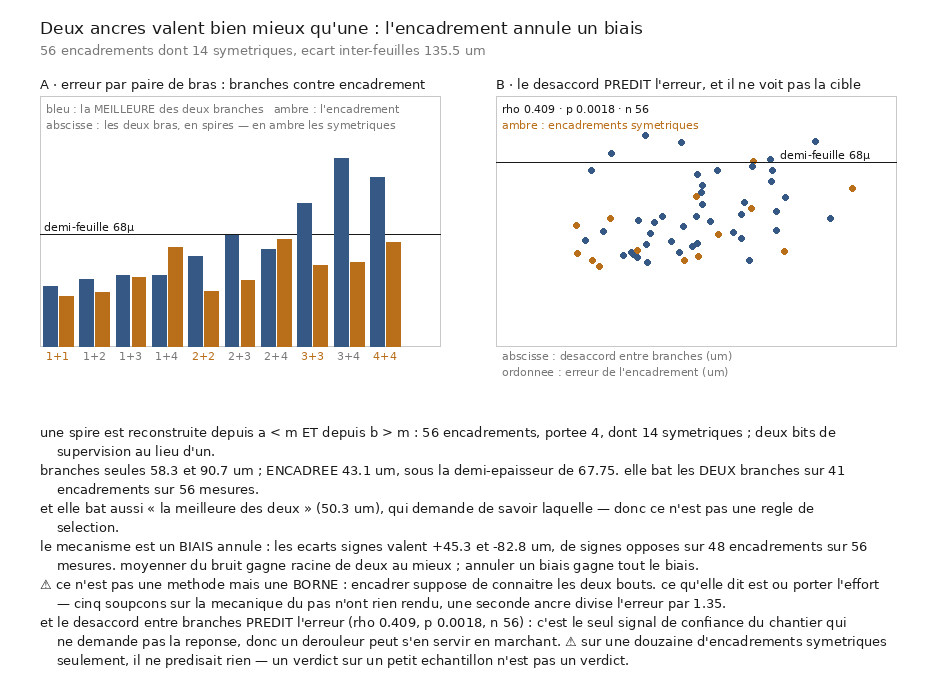
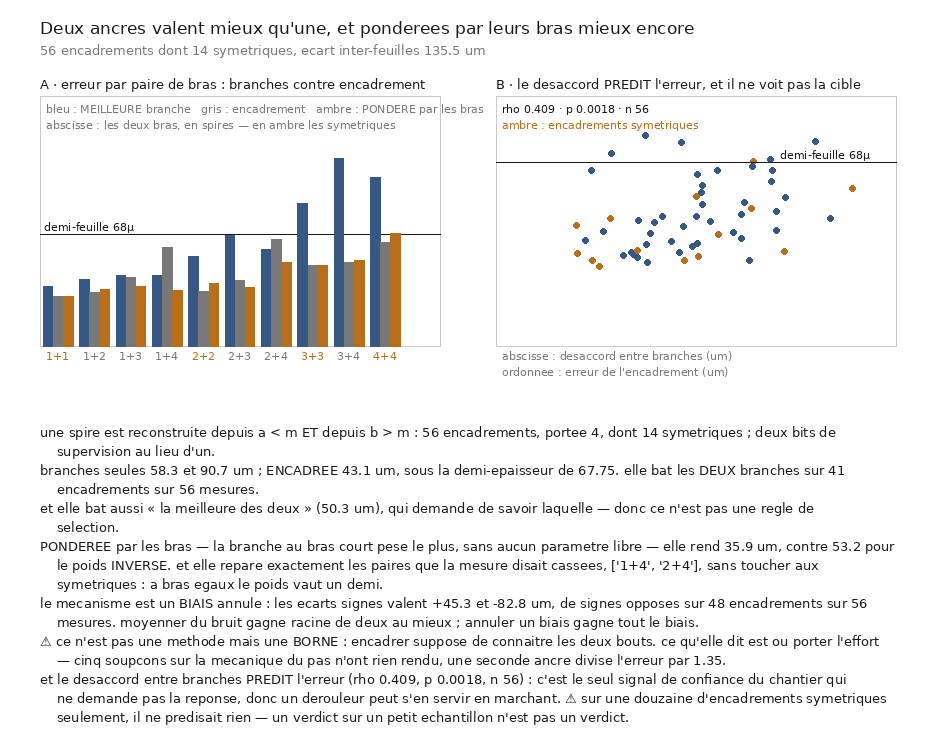
feat(nappe): weighting the two branches by their arms repairs exactly what was broken
The disagreement between branches is symmetric, the same number for both, so it
cannot say which one to trust. What tells them apart without looking at the answer
is the length of their arm, and the measurement has established that the error
grows with it. If it grows linearly, the estimator that cancels two errors of
opposite sign is linear interpolation between the two anchors: the branch with the
short arm weighs long arm over the sum. No free parameter.

Weighted it leaves 35.9 micrometres against 43.1 for the equal average, and 53.2
for the inverted weight control, so the direction matters. And it repairs exactly
the two arm pairs the measurement had called broken, one plus four and two plus
four, without touching the symmetric ones, since at equal arms the weight is one
half and returns the midpoint. A remedy that cannot damage the cases that already
worked does not need checking on them.

The four verdicts are required together: it beats the midpoint, it beats its
inverted control, it leaves the symmetric cases untouched, and it repairs all the
broken pairs. Without the last one, "it improves the median" could mean it moved
cases that were already fine.

The assumption the weight is derived from, that error grows linearly with the arm,
is checked in the battery rather than assumed: on two branches drifting by d and
by four d on opposite sides, the interpolation cancels them exactly, the equal
average does not, and the inverted weight does worse than the average.
[…]

diff --git a/src/nappe/derouler_des_deux_bords.py b/src/nappe/derouler_des_deux_bords.py
@@ -67,8 +67,30 @@ def marcher(a: np.ndarray, ok: np.ndarray, tours: int, pas_vx: float,
     return a, ok
 
 
-def combiner(gauche: np.ndarray, droite: np.ndarray) -> np.ndarray:
-    """Le nuage à mi-chemin des deux branches, point par point du plus proche voisin.
+def poids_par_les_bras(bras_gauche: int, bras_droit: int) -> float:
+    """Le poids de la branche GAUCHE, dérivé des deux longueurs de bras.
+
+    ⚠⚠⚠ IL N'Y A PAS DE PARAMÈTRE LIBRE ICI, ET C'EST LE POINT. Le désaccord entre branches est
+    **symétrique** — c'est le même nombre pour les deux — donc il ne peut pas dire laquelle
+    croire. Ce qui les distingue sans regarder la réponse est la **longueur de leur bras**, et la
+    mesure a établi que l'erreur croît avec elle. Si elle croît linéairement, l'estimateur qui
+    annule les deux erreurs de signes opposés est l'interpolation linéaire entre les deux ancres :
+    la branche au bras COURT pèse `bras_long / (somme)`. Aucun réglage, aucune constante.
+
+    ⚠⚠ ET ELLE DÉGÉNÈRE EN MOYENNE À PARTS ÉGALES QUAND LES BRAS SONT ÉGAUX. C'est ce qui rend le
+    remède sûr : il ne peut toucher QUE les encadrements asymétriques, c'est-à-dire exactement
+    ceux que la mesure a identifiés comme cassés. Un remède qui déplacerait aussi les cas sains
+    demanderait de vérifier qu'il ne les abîme pas ; celui-ci ne le peut pas.
+    """
+    total = bras_gauche + bras_droit
+    return 0.5 if total <= 0 else bras_droit / total
+
+
+def combiner(gauche: np.ndarray, droite: np.ndarray, poids: float = 0.5) -> np.ndarray:
+    """Le nuage entre les deux branches, `poids` étant celui de `gauche`.
+
+    ⚠ `poids = 0.5` rend le milieu, qui est le cas déjà mesuré : le défaut préserve donc la
+    mesure publiée, et seul un appelant qui demande autre chose la déplace.
 
     ⚠⚠ LES DEUX BRANCHES N'ONT PAS LA MÊME GRILLE — elles viennent de deux spires publiées, donc
     de deux paramétrages. Les moyenner cellule à cellule apparierait des points qui n'ont rien à
@@ -84,7 +106,7 @@ def combiner(gauche: np.ndarray, droite: np.ndarray) -> np.ndarray:
     if gauche.size == 0 or droite.size == 0:
         return gauche
     proche = droite[cKDTree(droite).query(gauche, k=1)[1]]
-    return 0.5 * (gauche + proche)
+    return poids * gauche + (1.0 - poids) * proche
 
 
 def desaccord(gauche: np.ndarray, droite: np.ndarray, voxel_um: float) -> np.ndarray:
@@ -224,10 +246,23 @@ def mesurer(cote: float | None = None, minimum: int = 30, portee: int = 4) -> di
         s_d = ecart_signe(d_, cible, axe, VOXEL_UM)
         mid_g = combiner(g_, d_)
         mid_d = combiner(d_, g_)
+        # ⚠⚠ LE POIDS EST DÉRIVÉ DES BRAS, appliqué dans le bon sens : la branche au bras COURT
+        # pèse le plus. L'inverser est le témoin — sans lui, « la pondération aide » serait
+        # satisfait par n'importe quel déplacement du milieu.
+        w = poids_par_les_bras(milieu - bas, haut - milieu)
+        pond_g = combiner(g_, d_, w)
+        pond_d = combiner(d_, g_, 1.0 - w)
+        pond_inv_g = combiner(g_, d_, 1.0 - w)
+        pond_inv_d = combiner(d_, g_, w)
         e_g = float(np.median(distance_a(g_, cible, VOXEL_UM)))
         e_d = float(np.median(distance_a(d_, cible, VOXEL_UM)))
         e_m = float(np.median(np.concatenate([
             distance_a(mid_g, cible, VOXEL_UM), distance_a(mid_d, cible, VOXEL_UM)])))
+        e_p = float(np.median(np.concatenate([
+            distance_a(pond_g, cible, VOXEL_UM), distance_a(pond_d, cible, VOXEL_UM)])))
+        e_pi = float(np.median(np.concatenate([
+            distance_a(pond_inv_g, cible, VOXEL_UM),
+            distance_a(pond_inv_d, cible, VOXEL_UM)])))
         des = float(np.median(desaccord(g_, d_, VOXEL_UM)))
         lignes.append(dict(
             bras_bas=milieu - bas, bras_haut=haut - milieu,
@@ -237,6 +272,9 @@ def mesurer(cote: float | None = None, minimum: int = 30, portee: int = 4) -> di
             points_montante=int(len(g_)), points_descendante=int(len(d_)),
             erreur_montante_um=round(e_g, 1), erreur_descendante_um=round(e_d, 1),
             erreur_encadree_um=round(e_m, 1),
+            erreur_ponderee_um=round(e_p, 1),
+            temoin_poids_inverse_um=round(e_pi, 1),
+            poids_de_la_montante=round(w, 3),
             erreur_de_la_meilleure_um=round(min(e_g, e_d), 1),
             desaccord_um=round(des, 1),
             ecart_signe_montante_um=round(s_g, 1),
@@ -332,6 +370,31 @@ def mesurer(cote: float | None = None, minimum: int = 30, portee: int = 4) -> di
     # ⚠⚠ LE RAPPORT EST PUBLIÉ ICI, PAS CALCULÉ PAR LA FIGURE. Un nombre qui apparaît dans une
     # légende sans exister dans la mesure est un nombre que personne ne peut retrouver — et le
     # contrôle de traçabilité de la prose l'a attrapé.
+    r["erreur_ponderee_mediane_um"] = med("erreur_ponderee_um")
+    r["temoin_poids_inverse_median_um"] = med("temoin_poids_inverse_um")
+    # ⚠⚠⚠ LA PONDÉRATION NE PEUT TOUCHER QUE LES ASYMÉTRIQUES, par construction : à bras égaux
+    # le poids vaut un demi et rend le milieu. Le vérifier ici plutôt que l'affirmer, parce que
+    # c'est ce qui rend le remède sûr — il ne peut pas abîmer les cas qui marchaient.
+    r["symetriques_inchanges_par_la_ponderation"] = all(
+        e["erreur_ponderee_um"] == e["erreur_encadree_um"]
+        for e in lignes if e["symetrique"])
+    # ⚠⚠ ET LA VRAIE QUESTION : répare-t-elle les paires que la mesure a dites CASSÉES ? Une
+    # pondération qui améliorerait la médiane globale sans réparer celles-là aurait déplacé des
+    # cas déjà sains, ce qui ne vaut rien.
+    r["paires_reparees_par_la_ponderation"] = [
+        cle for cle in r["paires_ou_lencadrement_nuit"]
+        if float(np.median([e["erreur_ponderee_um"] for e in lignes
+                            if f"{min(e['bras_bas'], e['bras_haut'])}+"
+                            f"{max(e['bras_bas'], e['bras_haut'])}" == cle]))
+        < r["par_paire_de_bras"][cle]["meilleure_branche_um"]]
+    r["la_ponderation_repare_les_paires_cassees"] = bool(
+        r["paires_ou_lencadrement_nuit"]
+        and len(r["paires_reparees_par_la_ponderation"])
+        == len(r["paires_ou_lencadrement_nuit"]))
+    r["la_ponderation_bat_le_milieu"] = bool(
+        r["erreur_ponderee_mediane_um"] < r["erreur_encadree_mediane_um"])
+    r["la_ponderation_bat_son_temoin"] = bool(
+        r["erreur_ponderee_mediane_um"] < r["temoin_poids_inverse_median_um"])
     r["gain_sur_la_meilleure_branche"] = round(
         r["erreur_de_la_meilleure_mediane_um"] / r["erreur_encadree_mediane_um"], 2)
     r["gain_sur_la_branche_montante"] = round(
@@ -422,6 +485,34 @@ def verifier() -> int:
     v("la combinaison a la taille de son premier argument",
       combiner(g, np.vstack([d, d]))
       .shape[0] == 2 and combiner(np.vstack([g, g]), d).shape[0] == 4)
+
+    # --- le poids dérivé des bras ---
+    v("à bras égaux le poids vaut un demi", poids_par_les_bras(3, 3) == 0.5)
+    # ⚠⚠ LA BRANCHE AU BRAS COURT PÈSE LE PLUS : l'inverse serait une pondération qui fait
+    # confiance à celle qui a le plus dérivé, et le témoin de la mesure l'exerce.
+    v("... et la branche au bras COURT pèse le plus", poids_par_les_bras(1, 4) > 0.5,
+      str(poids_par_les_bras(1, 4)))
+    v("... proportionnellement à l'autre bras", abs(poids_par_les_bras(1, 4) - 0.8) < 1e-9,
+      str(poids_par_les_bras(1, 4)))
+    v("des bras nuls ne rendent pas une division par zéro", poids_par_les_bras(0, 0) == 0.5)
+    # ⚠⚠⚠ ET LA COMBINAISON PONDÉRÉE DOIT TOMBER SUR LA CIBLE quand l'erreur croît linéairement
+    # avec le bras — c'est l'hypothèse dont le poids est tiré, donc elle se vérifie plutôt que
+    # de se supposer. Une branche à un bras dérive de d, celle à quatre bras de 4d de l'autre
+    # côté : l'interpolation linéaire les annule exactement.
+    cib = np.array([[0.0, 0.0, 0.0], [1.0, 0.0, 0.0]])
+    court = cib + np.array([0.0, 0.0, -10.0])
+    long_ = cib + np.array([0.0, 0.0, 40.0])
+    from le_pas_normal_atteint_la_spire import distance_a as _d  # noqa: PLC0415
+    w_ = poids_par_les_bras(1, 4)
+    v("la pondération annule une dérive linéaire en la longueur du bras",
+      float(np.median(_d(combiner(court, long_, w_), cib, 1.0))) < 1e-6,
+      str(float(np.median(_d(combiner(court, long_, w_), cib, 1.0)))))
+    v("... alors que la moyenne à parts égales ne l'annule pas",
+      float(np.median(_d(combiner(court, long_), cib, 1.0))) > 10.0,
+      str(float(np.median(_d(combiner(court, long_), cib, 1.0)))))
+    v("... et le poids INVERSÉ fait bien pire",
+      float(np.median(_d(combiner(court, long_, 1.0 - w_), cib, 1.0)))
+      > float(np.median(_d(combiner(court, long_), cib, 1.0))))
 
     # --- le désaccord ---
     ds = desaccord(g, d, 2.0)
@@ -524,6 +615,13 @@ def main() -> int:
           f"{r['desequilibres_des_paires_qui_nuisent']} ; mais "
           f"{r['meme_desequilibre_sans_nuire']} ont le même déséquilibre et ne nuisent pas, "
           "donc ce corpus ne dit pas si c'est la longueur ou le déséquilibre")
+    print(f"\npondérée par les bras : {r['erreur_ponderee_mediane_um']} µm contre "
+          f"{r['erreur_encadree_mediane_um']} à parts égales · témoin poids INVERSÉ "
+          f"{r['temoin_poids_inverse_median_um']} µm")
+    print(f"  symétriques inchangés (par construction) : "
+          f"{'OUI' if r['symetriques_inchanges_par_la_ponderation'] else 'NON'} · "
+          f"paires cassées réparées : {r['paires_reparees_par_la_ponderation']} sur "
+          f"{r['paires_ou_lencadrement_nuit']}")
     print(f"\n→ l'encadrement bat les DEUX branches : "
           f"{'OUI' if r['lencadrement_bat_les_deux'] else 'NON'} "
           f"({r['triplets_ou_lencadrement_bat_les_deux']} triplets sur {r['triplets']})")

diff --git a/src/figures/figure_derouler_des_deux_bords.py b/src/figures/figure_derouler_des_deux_bords.py
@@ -1,5 +1,5 @@
 #!/usr/bin/env python3
-"""Deux ancres valent bien mieux qu'une : l'encadrement annule un biais.
+"""Deux ancres valent bien mieux qu'une — et pondérées par leurs bras, mieux encore.
 
 ⚠⚠ POURQUOI CETTE FIGURE EXISTE. Les trois médianes — 52,8 / 66,5 / **31,0 µm** — se lisent comme
 une moyenne qui aide un peu, et ce n'est pas ça : le panneau A montre que l'écart se **creuse**
@@ -52,6 +52,11 @@ def prose(m: dict) -> list[str]:
         f"{m['triplets']} mesures.",
         f"et elle bat aussi « la meilleure des deux » ({m['erreur_de_la_meilleure_mediane_um']} "
         "um), qui demande de savoir laquelle — donc ce n'est pas une regle de selection.",
+        f"PONDEREE par les bras — la branche au bras court pese le plus, sans aucun parametre "
+        f"libre — elle rend {m['erreur_ponderee_mediane_um']} um, contre "
+        f"{m['temoin_poids_inverse_median_um']} pour le poids INVERSE. et elle repare "
+        f"exactement les paires que la mesure disait cassees, {m['paires_reparees_par_la_ponderation']}, "
+        "sans toucher aux symetriques : a bras egaux le poids vaut un demi.",
         f"le mecanisme est un BIAIS annule : les ecarts signes valent "
         f"{m['ecart_signe_montant_median_um']:+.1f} et "
         f"{m['ecart_signe_descendant_median_um']:+.1f} um, de signes opposes sur "
@@ -81,7 +86,8 @@ def dessiner(m: dict, sortie: Path) -> dict:
     H = 96 + ph + 90 + len(lignes) * 19
     toile = Image.new("RGB", (L, H), FOND)
     art = ImageDraw.Draw(toile)
-    art.text((marge, 18), "Deux ancres valent bien mieux qu'une : l'encadrement annule un biais",
+    art.text((marge, 18),
+             "Deux ancres valent mieux qu'une, et ponderees par leurs bras mieux encore",
              fill=TEXTE, font=gros)
     art.text((marge, 42),
              f"{m['triplets']} encadrements dont {m['triplets_symetriques']} symetriques, "
@@ -94,6 +100,13 @@ def dessiner(m: dict, sortie: Path) -> dict:
              fill=TEXTE, font=moyen)
     art.rectangle([ax, ay, ax + pw, ay + ph], outline=CADRE)
     paires = list(m["par_paire_de_bras"].items())
+    # ⚠ La pondérée est relue par paire depuis les lignes : le résumé par paire ne la porte pas,
+    # et la recalculer dans la figure serait un nombre que la mesure ne publie pas.
+    pond = {}
+    for e in m["lignes"]:
+        cle = f"{min(e['bras_bas'], e['bras_haut'])}+{max(e['bras_bas'], e['bras_haut'])}"
+        pond.setdefault(cle, []).append(e["erreur_ponderee_um"])
+    pond = {k: sorted(v)[len(v) // 2] for k, v in pond.items()}
     top = max(max(d["meilleure_branche_um"], d["encadree_um"]) for _, d in paires) * 1.15
     larg = pw / (len(paires) + 1)
     yd = ay + ph - m["demi_epaisseur_um"] / top * (ph - 34)
@@ -102,14 +115,16 @@ def dessiner(m: dict, sortie: Path) -> dict:
              fill=TEXTE, font=petit)
     for k, (cle, d) in enumerate(paires):
         x0 = ax + larg * (k + 0.5)
-        for dec, val, coul in ((-0.22, d["meilleure_branche_um"], BLEU),
-                               (0.22, d["encadree_um"], AMBRE)):
+        for dec, val, coul in ((-0.28, d["meilleure_branche_um"], BLEU),
+                               (0.0, d["encadree_um"], DISCRET),
+                               (0.28, pond[cle], AMBRE)):
             h = val / top * (ph - 34)
-            art.rectangle([x0 + dec * larg - larg * 0.19, ay + ph - h,
-                           x0 + dec * larg + larg * 0.19, ay + ph], fill=coul)
+            art.rectangle([x0 + dec * larg - larg * 0.13, ay + ph - h,
+                           x0 + dec * larg + larg * 0.13, ay + ph], fill=coul)
         art.text((x0 - 12, ay + ph + 3), cle,
                  fill=(AMBRE if d["symetrique"] else DISCRET), font=petit)
-    art.text((ax + 6, ay + 6), "bleu : la MEILLEURE des deux branches   ambre : l'encadrement",
+    art.text((ax + 6, ay + 6),
+             "bleu : MEILLEURE branche   gris : encadrement   ambre : PONDERE par les bras",
              fill=DISCRET, font=petit)
     art.text((ax + 6, ay + 22),
              "abscisse : les deux bras, en spires — en ambre les symetriques",
@@ -202,6 +217,17 @@ def verifier() -> int:
     gains = [sum(x) / len(x) for _, x in sorted(par_saut.items())]
     v("le gain se creuse quand le saut grandit", gains[-1] > gains[0],
       str([round(g, 2) for g in gains]))
+    # ⚠⚠⚠ LA PONDÉRATION : elle bat le milieu, elle bat son témoin inversé, elle ne touche pas
+    # les symétriques, et elle répare TOUTES les paires cassées. Les quatre ensemble — sans la
+    # dernière, « ça améliore la médiane » pourrait vouloir dire qu'elle a déplacé des cas sains.
+    v("la pondération bat le milieu", m["la_ponderation_bat_le_milieu"],
+      f"{m['erreur_ponderee_mediane_um']} contre {m['erreur_encadree_mediane_um']}")
+    v("... et son témoin de poids inversé", m["la_ponderation_bat_son_temoin"],
+      f"{m['erreur_ponderee_mediane_um']} contre {m['temoin_poids_inverse_median_um']}")
+    v("... sans toucher aux symétriques", m["symetriques_inchanges_par_la_ponderation"])
+    v("... et elle répare toutes les paires cassées",
+      m["la_ponderation_repare_les_paires_cassees"],
+      f"{m['paires_reparees_par_la_ponderation']} sur {m['paires_ou_lencadrement_nuit']}")
     # ⚠ Les encadrements asymétriques doivent être la majorité du corpus mesuré, sinon la
     # question « où poser la seconde ancre » n'aurait presque pas de points.
     v("les encadrements asymétriques dominent la mesure",

diff --git a/docs/registres/fiches_de_lecture.md b/docs/registres/fiches_de_lecture.md
@@ -3706,7 +3706,7 @@ Sept documents lus du premier au dernier caractère (`wc -l` relevé avant chaqu
 ---
 
 ### docs/55_les_murs_et_leurs_causes.md
-- **lignes** : 130
+- **lignes** : 131
 - **nature** : PROCEDE
 - **résumé** : Document **rendu** depuis `docs/registres/murs_et_causes.tsv` par `uv run python src/depot/murs_et_causes.py --rendre`, et non écrit à la main ; sa batterie vérifie que chaque ligne pointe vers un document contenant encore son ancre. Il recense **30 causes candidates sur 4 murs** : 19 éliminées, 10 confirmées, 1 bloquée, chacune avec la mesure qui l'a tranchée et le document d'origine. Sa thèse de forme est qu'un mur est un espace de causes dont on retire une entrée à la fois, et que la liste des causes éliminées — non celle des tâches — est le seul progrès mesurable. Une seule cause reste non tranchée, et elle est bloquée. (⚠ Note de lecture : l'en-tête compte 19 éliminations quand le §final écrit « les treize éliminations de ce document » ; le document ne signale pas l'écart. De même, il ne contient aucune cause ⏳ *ouverte* alors que son propre tableau de symboles définit ce statut.)
 - **conclusions extractibles** : *(les murs recensés, avec pour chacun les causes éliminées et celles qui restent ouvertes)*
@@ -3759,7 +3759,7 @@ Sept documents lus du premier au dernier caractère (`wc -l` relevé avant chaqu
   - La figure `55_espace_de_causes.png` n'est pas une jauge de progression : rien ne dit que l'espace est borné.
 - **rétractations / corrections internes** : aucune rétractation déclarée. Le document précise en revanche deux bornes de portée sur des causes confirmées : « la graine, c'est-à-dire l'endroit » explique la famille m7 **et pas le mur**, et la chaîne tangentielle « ne dit pas que c'est la BONNE feuille (il faut de l'encre), et part d'un segment PUBLIÉ et non d'une de nos traces ». Il retire aussi explicitement une affirmation antérieure : « ⚠⚠ Le “croisement” que j'avais publié à 1 920 µm n'existe pas : chaîne ET bond y sont au niveau du hasard (−1,7 et +1,6) ».
 - **preuve de lecture intégrale** :
-  - ligne 92 : « | enchaîner la projection à GRAND pas (238 µm/maillon) | ❌ | cinq maillons de 238 µm étalent la boîte ×2,38 à nombre de points constant, contre ×1,10 pour le bond direct — et finissent 5,33 SPIRES à côté de lui. ⚠ Le pas réel dérive avant la boîte : 238 → 963 µm par maillon | [`44`](44_ou_la_chaine_se_trouve.md) | »
+  - ligne 97 : « | enchaîner la projection à GRAND pas (238 µm/maillon) | ❌ | cinq maillons de 238 µm étalent la boîte ×2,38 à nombre de points constant, contre ×1,10 pour le bond direct — et finissent 5,33 SPIRES à côté de lui. ⚠ Le pas réel dérive avant la boîte : 238 → 963 µm par maillon | [`44`](44_ou_la_chaine_se_trouve.md) | »
   - ligne 127 : « cause à laquelle personne n'a pensé. Le tableau borne ce qu'on a testé, jamais ce qui »
 
 ---
@@ -5419,7 +5419,7 @@ mesurés par `wc -l` avant lecture. `docs/69_*.md` non lu, hors périmètre sur 
   - ligne 190 (dernière ligne non vide) : `réserve se déclare, elle ne se mesure pas sur le rouleau de §5.5.`
 
 ### docs/75_registre_des_taches.md
-- **lignes** : 2910
+- **lignes** : 2938
 - **nature** : REGISTRE
   (le registre vivant des tâches ouvertes par `69`, `72`, `73` et `74`, tenu à jour au fil des
   mesures ; il porte donc **aussi** les résultats de celles qui se sont fermées.)
@@ -5890,6 +5890,21 @@ mesurés par `wc -l` avant lecture. `docs/69_*.md` non lu, hors périmètre sur 
     ⚠⚠ **Le chiffre trompeur n'est pas publié** : le déséquilibre minimal des fautives vaut deux,
     mais `1+3` a le même et ne nuit pas. Ce qu'elles partagent est leur **bras long**, égal à la
     portée mesurée — ce corpus ne dit donc pas si c'est la longueur ou le déséquilibre.
+  - ⭐⭐⭐ **ET PONDÉRER LES DEUX BRANCHES PAR LEURS BRAS RÉPARE EXACTEMENT CE QUI ÉTAIT CASSÉ.**
+    Le désaccord est **symétrique**, donc il ne peut pas dire laquelle croire ; ce qui les
+    distingue **sans la réponse** est la longueur du bras. Si l'erreur y croît linéairement,
+    l'estimateur qui annule deux erreurs de signes opposés est l'**interpolation linéaire entre
+    les ancres** — la branche au bras court pèse `bras_long / somme`, **aucun paramètre libre**.
+    Résultat : **35,9 µm** contre 43,1 à parts égales, et **53,2** pour le témoin de poids
+    **inversé**.
+  - ⭐⭐ **Et elle répare les DEUX paires cassées** (`1+4`, `2+4`) **sans toucher aux
+    symétriques**, puisqu'à bras égaux le poids vaut un demi. Un remède qui ne PEUT PAS abîmer
+    les cas sains n'a pas besoin d'être vérifié sur eux. ⚠⚠ Les quatre verdicts sont exigés
+    ensemble — sans « répare les cassées », « ça améliore la médiane » pourrait vouloir dire
+    qu'elle a déplacé des cas déjà bons.
+  - ⚠ L'hypothèse dont le poids est tiré est **vérifiée dans la batterie** : sur deux branches
+    dont les dérives valent `d` et `4d` de part et d'autre, l'interpolation les annule
+    exactement, la moyenne non, et le poids inversé fait pire.
   - ⭐⭐ **Le mécanisme est un BIAIS annulé** : écarts **signés** +45,3 et −82,8 µm, de signes
     opposés sur **48 encadrements sur 56**. Moyenner du bruit gagne √2 au mieux ; annuler un biais
     gagne **tout le biais**. ⚠ Le témoin : deux branches du **même côté** ont un milieu qui ne bat
@@ -5953,8 +5968,8 @@ mesurés par `wc -l` avant lecture. `docs/69_*.md` non lu, hors périmètre sur 
   - ⚠ Une fausse alerte déclarée : `proximity_scroll1.json` cru manquant, il existe en
     `.jsonl` — « mon motif cherchait la mauvaise extension ».
 - **preuve de lecture intégrale** :
-  - ligne 2317 (après 60 % du fichier) : `chercher sur l'un et refuser sur l'autre garantit de trouver ce qui sera refusé.`
-  - ligne 2910 (dernière ligne non vide) : `déjà sous deux formes, et le prior n'est pas universel.`
+  - ligne 2345 (après 60 % du fichier) : `chercher sur l'un et refuser sur l'autre garantit de trouver ce qui sera refusé.`
+  - ligne 2938 (dernière ligne non vide) : `déjà sous deux formes, et le prior n'est pas universel.`
 
 
 ### docs/76_le_sens_des_indices.md

diff --git a/docs/75_registre_des_taches.md b/docs/75_registre_des_taches.md
@@ -2161,11 +2161,11 @@ longueurs lues s'y étalent sur **30,4** contre **0,7** avec une feuille.
 > mesuré si un dérouleur qui part de **plusieurs** endroits à la fois — et dont les branches
 > doivent s'accorder là où elles se rencontrent — fait mieux qu'un seul qui part d'un bout.
 
-#### ⭐⭐⭐ DEUX ANCRES VALENT BIEN MIEUX QU'UNE — et il faut les espacer RÉGULIÈREMENT
+#### ⭐⭐⭐ DEUX ANCRES VALENT BIEN MIEUX QU'UNE — espacées régulièrement, et PONDÉRÉES
 
-> Mesure : `src/nappe/derouler_des_deux_bords.py` (25 contrôles) →
+> Mesure : `src/nappe/derouler_des_deux_bords.py` (32 contrôles) →
 > `docs/mesures/derouler_des_deux_bords.json`. Figure :
-> `src/figures/figure_derouler_des_deux_bords.py` (15 contrôles), le 2026-09-06.
+> `src/figures/figure_derouler_des_deux_bords.py` (19 contrôles), le 2026-09-06.
 >
 > ```
 > uv run python src/nappe/derouler_des_deux_bords.py --cote 640 --json docs/mesures/derouler_des_deux_bords.json
@@ -2221,6 +2221,34 @@ déséquilibre minimal des paires fautives vaut deux, mais `1+3` a exactement ce
 nuit pas. Ce que les deux fautives partagent est leur **bras long**, et il vaut la portée mesurée —
 donc ce corpus ne dit **pas** si c'est la longueur absolue ou le déséquilibre qui casse. Les deux
 faits sont rendus, la conclusion non.
+
+##### ⭐⭐⭐ Et PONDÉRER les deux branches par leurs bras répare exactement ce qui était cassé
+
+Le désaccord entre branches est **symétrique** — c'est le même nombre pour les deux — donc il ne
+peut pas dire laquelle croire. Ce qui les distingue **sans regarder la réponse** est la longueur de
+leur bras, et la mesure a établi que l'erreur croît avec elle. Si elle croît **linéairement**,
+l'estimateur qui annule deux erreurs de signes opposés est l'**interpolation linéaire entre les
+deux ancres** : la branche au bras court pèse `bras_long / (somme)`. ⭐ **Aucun paramètre libre.**
+
+| | erreur médiane |
+|---|---:|
+| encadrée à parts égales | 43,1 µm |
+| **pondérée par les bras** | **35,9 µm** |
+| témoin : poids **inversé** | 53,2 µm |
+
+> ⭐⭐⭐ **Et elle répare EXACTEMENT les deux paires que la mesure avait dites cassées** — `1+4` et
+> `2+4` — **sans toucher aux symétriques**, parce qu'à bras égaux le poids vaut un demi et rend le
+> milieu. Un remède qui ne peut pas abîmer les cas qui marchaient n'a pas besoin qu'on le vérifie
+> sur eux ; celui-ci ne le peut pas **par construction**.
+
+⚠⚠ Les quatre verdicts sont exigés **ensemble** : elle bat le milieu, elle bat son témoin de poids
+inversé, elle laisse les symétriques intacts, et elle répare **toutes** les paires cassées. Sans le
+dernier, « ça améliore la médiane » pourrait vouloir dire qu'elle a déplacé des cas déjà sains.
+
+⚠ L'hypothèse dont le poids est tiré — l'erreur croît linéairement avec le bras — est **vérifiée
+dans la batterie** plutôt que supposée : sur deux branches dont les dérives valent `d` et `4d` de
+part et d'autre, l'interpolation les annule exactement, la moyenne à parts égales non, et le poids
+inversé fait bien pire.
 
 ##### ⭐⭐ Le mécanisme est mesuré : c'est un BIAIS qui s'annule, pas du bruit qu'on moyenne
 

diff --git a/docs/55_les_murs_et_leurs_causes.md b/docs/55_les_murs_et_leurs_causes.md
@@ -11,7 +11,7 @@ la fois. Une feuille de route qui liste des tâches laisse croire qu'on avance q
 tourne ; celle-ci liste des causes **éliminées**, et montre l'espace rétrécir. C'est le
 seul progrès mesurable sur un problème que personne n'a résolu.
 
-**55 causes candidates** sur **4 murs** : ❌ **39** éliminées · ✅ **13** confirmées · 🔒 **3** bloquées
+**56 causes candidates** sur **4 murs** : ❌ **39** éliminées · ✅ **14** confirmées · 🔒 **3** bloquées
 
 | symbole | verdict | ce que ça veut dire |
 |---|---|---|
@@ -29,7 +29,7 @@ viennent du même registre et sont vérifiés contre ce tableau.*
 
 ## 1. Le tracé ne suit pas de feuille
 
-❌ 21 éliminées · ✅ 8 confirmées · 🔒 3 bloquées
+❌ 21 éliminées · ✅ 9 confirmées · 🔒 3 bloquées
 
 | cause candidate | | ce qui a été mesuré | où |
 |---|---|---|---|
@@ -41,6 +41,7 @@ viennent du même registre et sont vérifiés contre ce tableau.*
 | lisser le champ de NORMALES avant le pas répare ce que le raccrochage abîme | ✅ | la dérive du raccrochage tombe de +56,1 à +25,3 um par tour, et le même lissage ne fait RIEN pour le pas aveugle (+22,3 contre +22,0) — donc le dégât était bien celui du raccrochage ; +26,0 / +25,8 / +25,3 aux trois tailles de boîte, le contendant le plus stable des dix | [`75`](75_registre_des_taches.md) |
 | encadrer une spire par ses deux voisines, au lieu de marcher depuis une seule | ✅ | sur 56 encadrements (portée 4, dont 14 symétriques) : branches seules 58,3 et 90,7 um, ENCADRÉE 43,1 — sous la demi-épaisseur de 67,75 — et elle bat les DEUX branches sur 41, ainsi que « la meilleure des deux » (50,3) qui demande de savoir laquelle ; à somme de bras égale la symétrie gagne (2+2 rend 33,2 contre 41,3 pour 1+3) | [`75`](75_registre_des_taches.md) |
 | le désaccord entre deux branches est un signal de confiance sans cible | ✅ | c'est la seule mesure du chantier qui ne demande pas la réponse, et elle prédit l'erreur de l'encadrement : rho 0,409 avec p 0,0018 sur 56 encadrements — sur les douze symétriques seuls elle ne prédisait rien (rho 0,28, p 0,38), donc un verdict sur un petit échantillon n'est pas un verdict | [`75`](75_registre_des_taches.md) |
+| pondérer les deux branches par la longueur de leur bras, au lieu de les moyenner à parts égales | ✅ | 35,9 um contre 43,1 à parts égales et 53,2 pour le témoin de poids INVERSÉ ; elle répare exactement les deux paires que la mesure disait cassées (1+4 et 2+4) et ne touche pas aux symétriques, le poids valant un demi à bras égaux — interpolation linéaire entre les deux ancres, aucun paramètre libre | [`75`](75_registre_des_taches.md) |
 | la fenêtre de lecture | ❌ | relu à 128 px × 109 couches, la géométrie du corpus : le classement ne bouge pas | [`52`](52_calibrer_sur_son_corpus.md) |
 | la chaîne de rendu | ❌ | un maillage PUBLIÉ passé par notre chaîne revient à 0,873 — au-dessus de la médiane du corpus | [`53`](53_le_temoin_positif_du_rendu.md) |
 | le champ de normales (NORMAL pèse 10) | ❌ | chargé pour de vrai : coût par génération ×29, trajectoire INCHANGÉE sur 118 générations | [`26`](26_le_champ_de_direction.md) |
